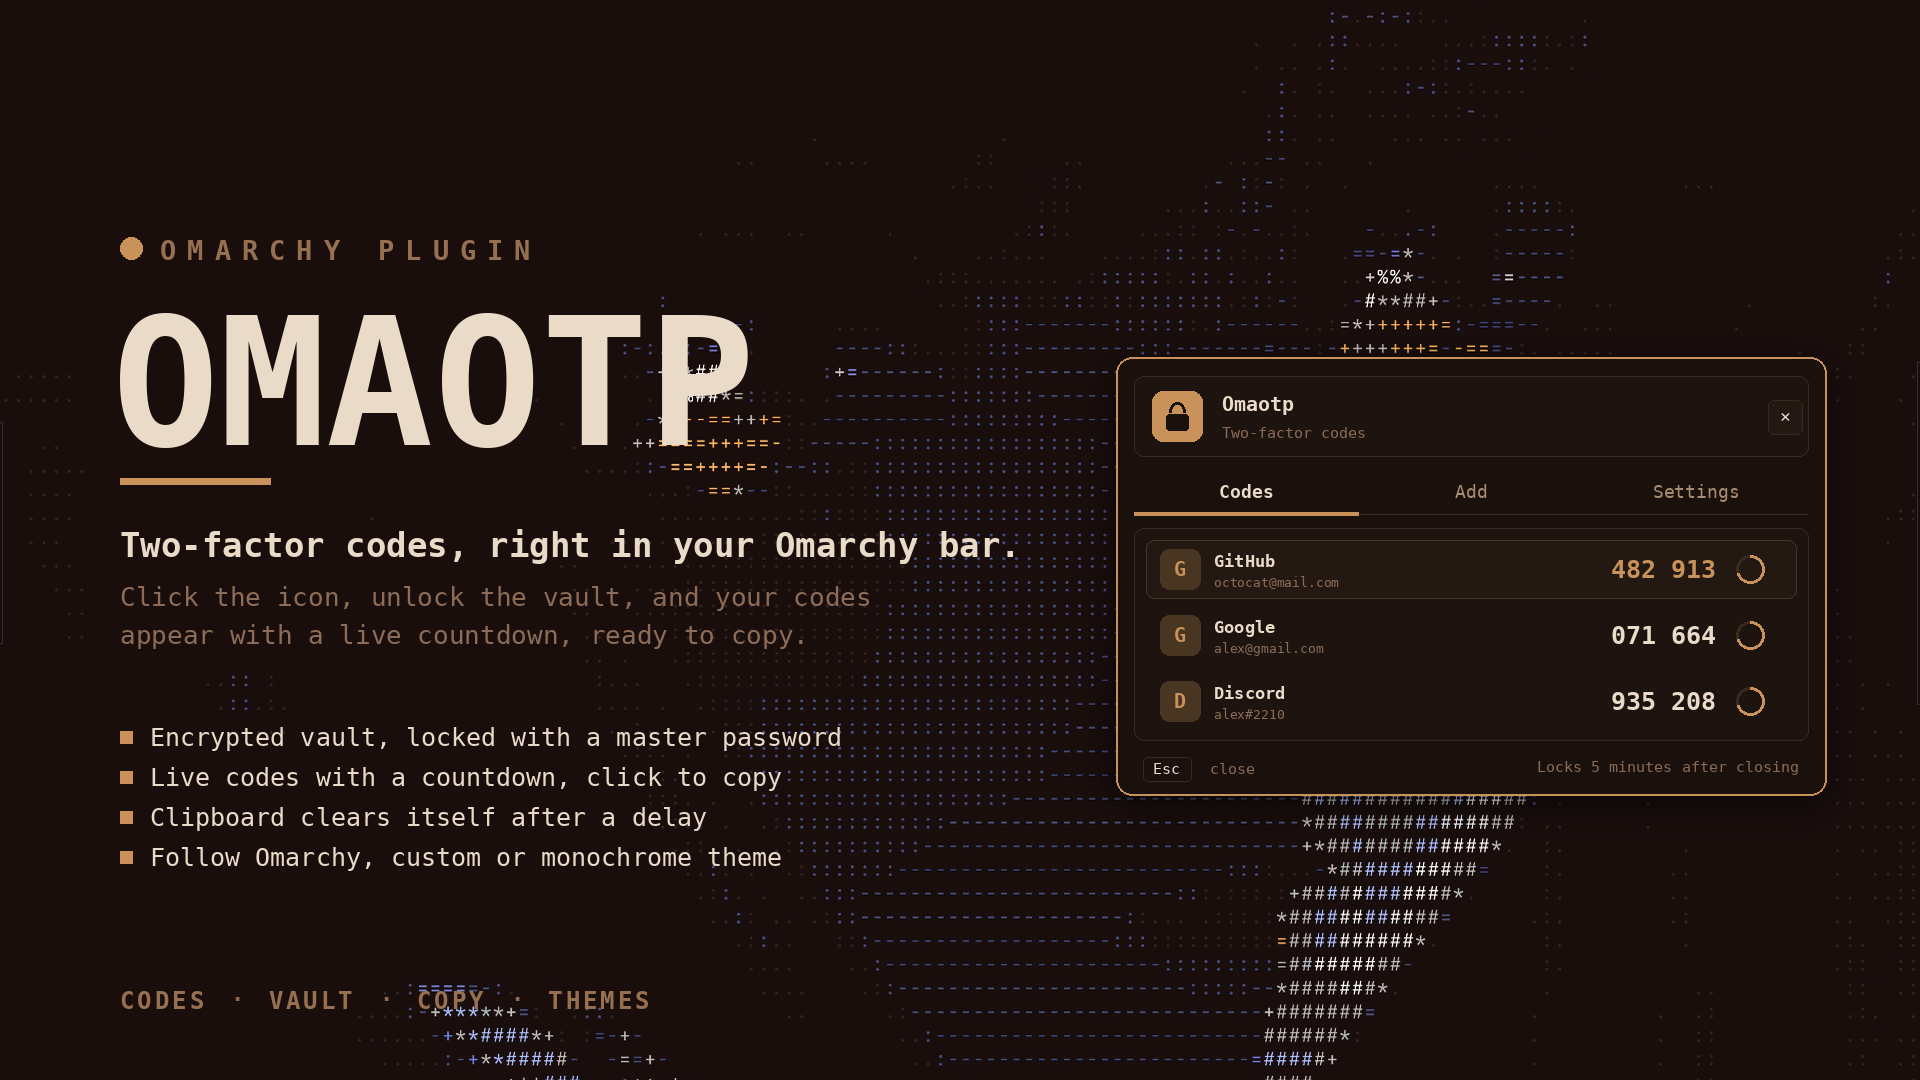
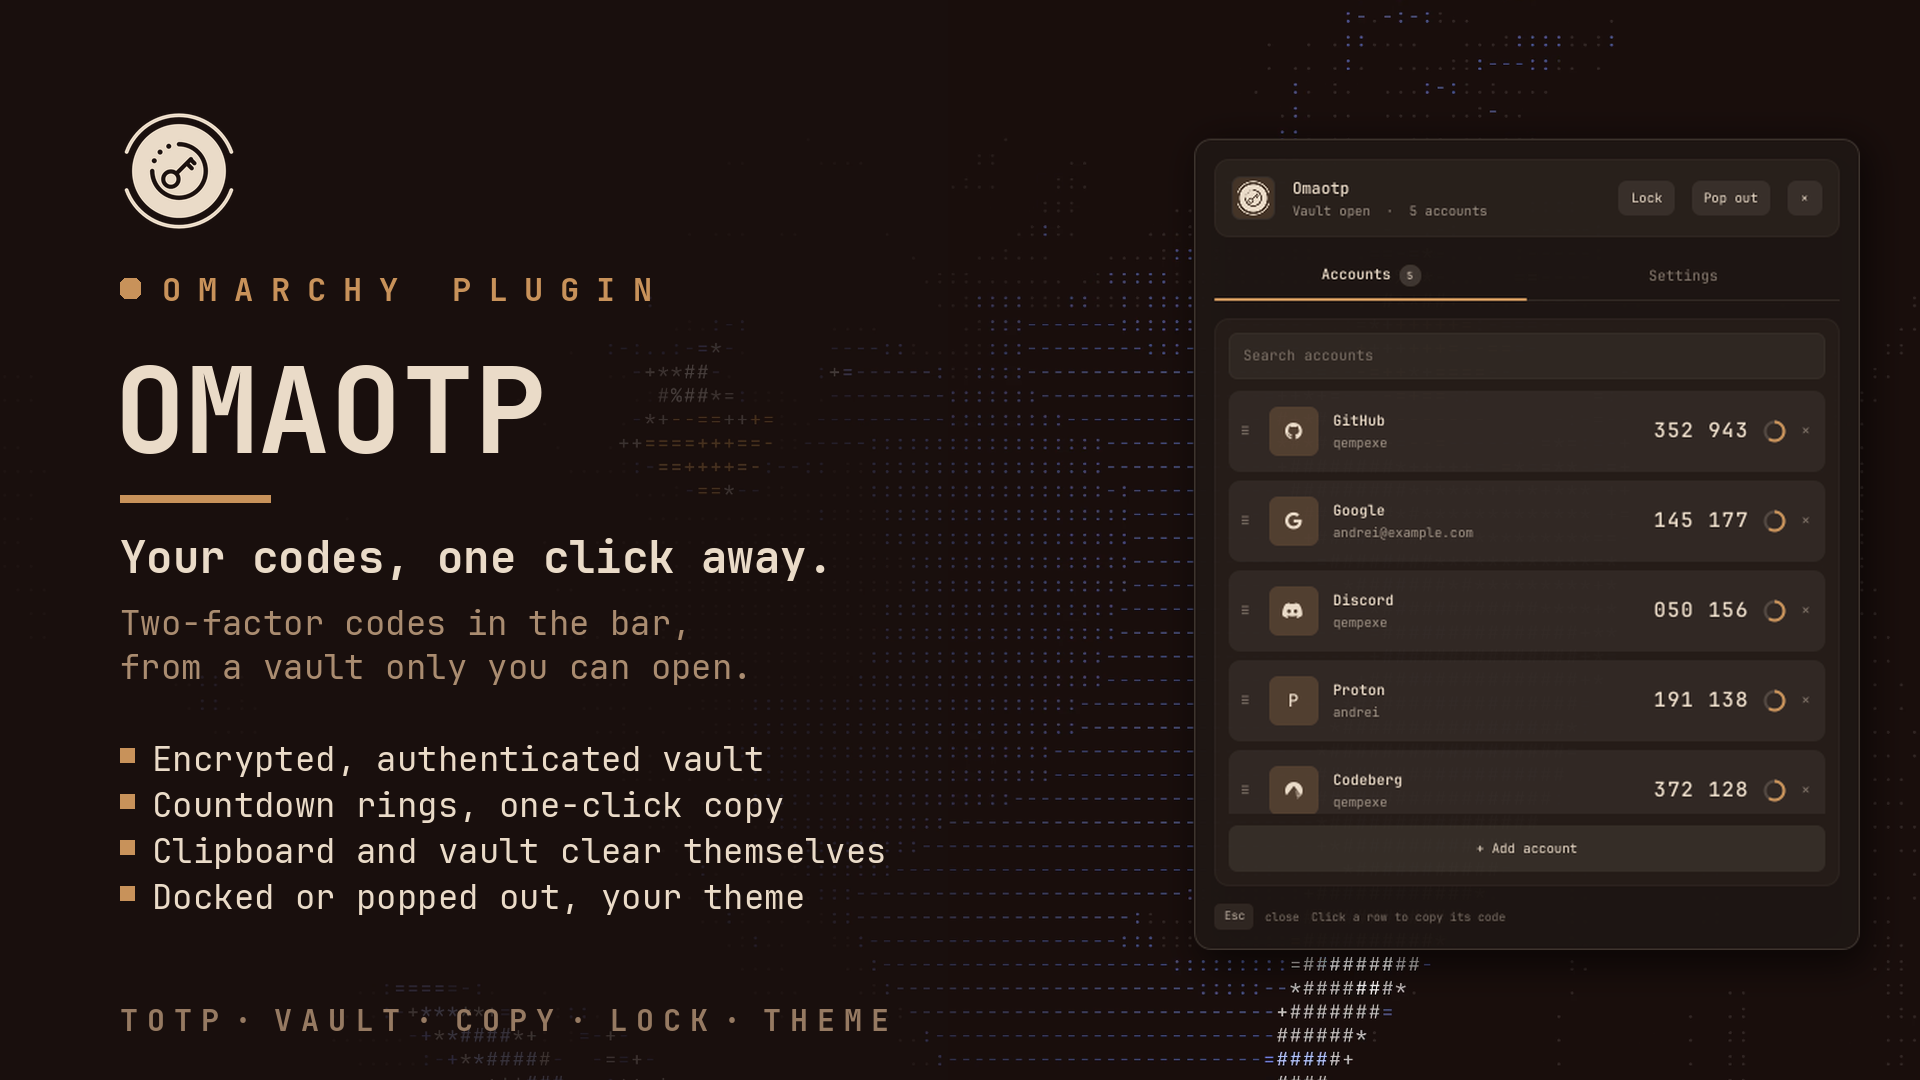
docs: README in the new layout, with screenshots and a new preview

diff --git a/README.md b/README.md
@@ -1,109 +1,232 @@
-# omaotp
+<p align="center">
+  <picture>
+    <source media="(prefers-color-scheme: light)" srcset="assets/logo-dark.png">
+    <img src="assets/logo.png" alt="Omaotp logo" width="112">
+  </picture>
+</p>
 
-A FreeOTP-style authenticator for the Omarchy bar. The bar shows one icon, ringed by its countdown, for the first account in your list. You set that order by dragging. Click the bar to open the list, search it, copy any code with one click, and drag accounts into the order you want.
+<h1 align="center">Omaotp</h1>
 
-Codes are RFC 6238 TOTP, the same codes FreeOTP, Aegis and Google Authenticator produce. Secrets are stored in an encrypted vault on this machine, protected by a master password.
+<p align="center">One-time codes in your <a href="https://omarchy.org">Omarchy</a> bar, from an encrypted vault only you can open.</p>
 
-![omaotp](preview.png)
+![Omaotp](preview.png)
 
-## Install
+An authenticator for two-factor sign-ins, like FreeOTP, Aegis or Google Authenticator,
+living in the bar. The bar shows your first account's icon in its countdown ring. Click
+it and your accounts open, each with its code; click a row and the code is copied, and
+cleared from the clipboard again a little later. The secrets stay in a vault on this
+computer, encrypted behind a master password.
 
-```sh
+## Features
+
+- **Standard codes**: RFC 6238 TOTP, 6 or 8 digits, SHA1, SHA256 or SHA512, any period
+  from 15 to 120 seconds, the same codes your phone app makes.
+- **An encrypted vault**: AES-256 with a key from your master password, plus an HMAC so
+  a changed vault is refused before it is opened.
+- **One click to copy**: the clipboard clears itself after 30 seconds, if it still holds
+  the code.
+- **Locks itself**: a few minutes after the window closes, or straight away.
+- **Search and order**: filter by issuer or account, and drag your accounts into the
+  order you want. The top one is the one on the bar.
+- **Your theme**: follows your Omarchy theme live, takes your window border's colors, or
+  uses your own colors, or none at all.
+- **Docked or popped out**: a panel on the bar, or a window you can move, resize and tile.
+
+### Accounts
+
+<img align="right" src="screenshots/accounts.png" alt="Accounts" width="360">
+
+Each row has the service's icon (GitHub, Google, Discord and many more, or a letter), the
+issuer and account, the code and a ring that runs out with it. It turns yellow at 10
+seconds and red at 5. Click a row to copy its code; the code lights up in the accent.
+
+**+ Add account** takes an `otpauth://totp/…` link (from the site's setup page, or a QR
+code decoder), or the issuer, the account and the secret by hand. The `×` on a row asks
+once more before it removes the account.
+
+<br clear="right">
+
+### The vault
+
+<img align="right" src="screenshots/locked.png" alt="Locked" width="360">
+
+The first time, Omaotp asks for a master password of at least 8 characters, twice, and
+creates the vault. After that it asks for it to unlock. **Lock** in the header, or a
+middle click on the bar button, locks it again at once.
+
+<br clear="right">
+
+## Installation
+
+```bash
 omarchy plugin add https://github.com/qempexe/omarchy-omaotp.git --enable --yes
+omarchy restart shell
 ```
 
-On first open, create a vault with a master password of at least 8 characters. The vault is created automatically; there is no separate setup step.
+Then add **Omaotp** to your bar, from the bar settings or with
+`{ "id": "io.github.qempexe.omaotp" }` under `bar` → `layout` in
+`~/.config/omarchy/shell.json`.
 
-## Requirements
+It needs `python3` and `openssl` for the vault, and `wl-clipboard` (`wl-copy`,
+`wl-paste`) for copying. Omarchy has them all.
 
-| Tool | Used for | Usually installed |
-| --- | --- | --- |
-| `python3` | the helper that generates codes | yes |
-| `openssl` | encrypting the vault | yes |
-| `wl-clipboard` (`wl-copy`, `wl-paste`) | copying codes | yes on Omarchy |
+## Usage
 
-## Using it
+### Bar button
 
-* **Add an account:** open the panel, click *Add account*, then either paste an `otpauth://totp/...` link (from a QR code decoder or the site's setup page) or fill in issuer, account and secret.
-* **Copy a code:** click its row. The clipboard is cleared after the time set in *Clear clipboard after* (default 30 seconds) if it still holds that code.
-* **Search:** type in the search box to filter by issuer or account.
-* **Reorder:** press and drag the `≡` handle on the left of a row, then release it over the row you want. The new order is saved in the vault, and the account at the top of the list is the one shown in the bar.
-* **Remove an account:** click the `×` on its row, then click *Remove?* to confirm.
-* **Lock:** click *Lock* in the header or middle-click the widget. The vault also locks after the time set in *Lock after* (default 5 minutes) once the panel closes.
-
-Codes refresh every 30 seconds, when the time window changes.
-
-## Settings
-
-Open the panel's *Settings* tab. Changes apply at once and are saved to `~/.config/omaotp/settings.json`. The file is watched, so a hand edit applies live too.
-
-| Setting | Default | Choices |
-| --- | --- | --- |
-| Accent color | Theme | Theme, Custom, Mono |
-| Custom color | `#39d353` | any `#rrggbb` (swatches, or type and press Enter) |
-| Lock after | 5 minutes | 1, 2, 5, 10, 15, 30 |
-| Clear clipboard after | 30 s | 10, 20, 30, 60, 120 |
-
-## Color
-
-Pick the accent color in *Settings*, or from the *Accent color* row:
-
-| Mode | What it uses |
+| Click | Does |
 | --- | --- |
-| **Theme** (default) | The background, text and accent colors of your current Omarchy theme, read from `~/.config/omarchy/current/theme/colors.toml`. The panel changes as soon as you switch themes. |
-| **Custom** | Any `#rrggbb` color. Pick a swatch, type a hex value and press Enter, or click Reset. |
-| **Mono** | Shades of your bar text color. Good for a fully neutral bar. |
+| Left | opens Omaotp on the Accounts tab, or closes it |
+| Middle | locks the vault (or copies the first code, or nothing: see **Middle click**) |
+| Right | the Settings tab |
 
-Countdown warnings are always shown in yellow (10 seconds left) and red (5 seconds left), in every mode.
+**Esc** or **×** closes it, and **Alt+←/→** switches tabs.
 
-Theme mode reads `background`, `foreground` and `accent` from `~/.config/omarchy/current/theme/colors.toml` and watches that file. If the file or any of those three keys is missing, the panel falls back to the bar's own colours and the accent to the default green.
+### Pop out and dock
 
-## Where data lives
+The header's **Pop out** turns Omaotp into a real window you can move, resize and tile,
+and **Dock** puts it back on the bar. **Settings › Window › Open as** picks which one the
+bar button opens.
 
-| Path | Contents |
-| --- | --- |
-| `~/.local/share/omaotp/vault.enc` | encrypted vault (AES-256-CBC, PBKDF2-SHA256, 300,000 iterations) |
-| `~/.config/omaotp/settings.json` | your settings |
-| `~/.config/omaotp/color` | old colour file from 1.0.x, read once for migration, then left in place |
+Hyprland tiles new windows. To float and center the popped-out window, add to
+`~/.config/hypr/hyprland.lua`:
 
-Nothing secret is written to the shell settings file or to the log.
-
-## Security notes
-
-* The master password is never passed on the command line. It goes to the helper on stdin and from there to openssl through a pipe, so it does not show up in `ps`.
-* The password and decrypted codes are held in memory only while the vault is open. Locking clears them.
-* The QML makes no network requests. Everything runs locally.
-* Back up `vault.enc` and remember the master password. Without the password the vault cannot be recovered.
-
-## Limitations
-
-* No import yet from Aegis or FreeOTP exports. Add accounts by link or by hand for now.
-* No QR scanning from the screen yet.
-* Only 30-second periods are shown as expected. Other periods work but refresh at the shortest period across your accounts.
-* Month and weekday labels are English.
-
-## Development
-
-```
-manifest.json          plugin manifest (id, settings schema)
-BarWidget.qml          bar item: vault state, helper job queue, countdown ring
-Panel.qml              popup: setup, unlock, accounts, add, settings
-Otp.js                 shared model: errors, issuer icons, colors, parsing
-bin/omaotp.py          helper: encrypted vault, TOTP, otpauth parsing
-Settings.js            the list the Settings tab is built from
-SettingsStore.qml      settings in memory, saved to settings.json and watched
-Foreground.qml         hidden probe for the bar colours
-FieldBox.qml, FlatButton.qml, SectionLabel.qml   small UI pieces
-tests/                 unit tests for Otp.js and Settings.js (node tests/otp.test.js)
-assets/key.png         icon shown in the bar for accounts with no known brand icon
+```lua
+o.window({ class = "^org\\.quickshell$", title = "^Omaotp$" }, { tag = "+omaotp-window" })
+o.window({ tag = "omaotp-window" }, { float = true })
+o.window({ tag = "omaotp-window" }, { center = true })
+o.window({ tag = "omaotp-window" }, { size = { 460, 560 } })
 ```
 
-The helper's commands are `status`, `init`, `codes`, `add` and `remove`. Each prints one line of JSON. Test it on its own with:
+## Configuration
 
-```sh
-printf 'my master password\n' | python3 bin/omaotp.py codes
+The **Settings** tab, or a right click on the bar button. Everything applies at once and
+is saved in `~/.config/omaotp/settings.json`.
+
+<table>
+<tr>
+<td><img src="screenshots/settings.png" alt="Settings: Colors"></td>
+<td><img src="screenshots/settings-security.png" alt="Settings: Security"></td>
+<td><img src="screenshots/about.png" alt="About"></td>
+</tr>
+</table>
+
+The settings sit in tabs, with a search box above them that looks through every tab.
+Each row has a **↺** to put it back, and **Reset all** in the header puts back everything.
+
+| Tab | Setting | Default | |
+| --- | --- | --- | --- |
+| Colors | Colors | Follow theme | Follow theme, Window borders, Custom or Monochrome |
+| | Custom colors | | background, text and accent; text too close to the background is darkened or lightened just enough to read |
+| | Text | Always readable | or Theme, or My text color |
+| Appearance | Card style | Soft | Soft, Outline or Flat |
+| | Spacing | Comfortable | Compact, Comfortable or Spacious |
+| | Roundness | 4 | 0 (square) to 20 |
+| | Text size | 1 | 0.8 to 1.5 |
+| | Issuer icons | on | or the first letter |
+| | Split codes in two | on | `123 456`; the copied code has no space |
+| Window | Window width, height | 460 × 560 | 380 to 1000, 400 to 1100 |
+| | Open as | Bar panel | or Own window |
+| | Window outline | off | the edge in your window border's colors, as a gradient or one color |
+| | Window tint | 0 | 0 to 30, the accent washed over the background |
+| | Window opacity | 97 | 50 to 100 |
+| Security | Lock after | 5 minutes | 1 to 60, after the window closes |
+| | Lock when the window closes | off | |
+| | Clear the clipboard after | 30 s | 10 to 120 |
+| | Hide codes until hovered | off | dots until the mouse is over the row |
+| Bar | Bar button shows | Icon and ring | or Ring and code, or Only the lock |
+| | Middle click | Lock the vault | or Copy the first code, or Nothing |
+
+**Window borders** and the outline read the active border from your theme's
+`hyprland.lua` (or `hyprland.conf`), and only take `#rrggbb` colors and an angle from it.
+Settings saved by 1.1 keep working under their new names.
+
+**About**, the last tab, has the logo, the version and a link to more plugins.
+
+## Troubleshooting
+
+- **Wrong master password.** There is no way around it: without the password the vault
+  can't be opened, by design. Keep it somewhere safe, and back up `vault.enc`.
+- **A code is refused.** Check the computer's clock (`timedatectl`): TOTP codes depend on
+  the time. Codes are made for the current 30-second window.
+- **That is not a valid link.** Only `otpauth://totp/…` links are taken, with a base32
+  secret, 6 or 8 digits and a period from 15 to 120 seconds. HOTP (counter) links aren't
+  supported.
+- **Where things live.**
+
+  | Path | Contents |
+  | --- | --- |
+  | `~/.local/share/omaotp/vault.enc` | the vault, in a folder only you can open (0700) |
+  | `~/.config/omaotp/settings.json` | your settings, nothing secret |
+
+- **How the vault is kept.** AES-256-CBC by `openssl`, with PBKDF2-SHA256 and 300,000
+  rounds from your master password, and an HMAC-SHA256 of the encrypted bytes with its
+  own key from the password, checked before anything is decrypted. The file is written to
+  a new file first and then moved over the old one, so a crash can't leave half a vault.
+- **The master password** is never put on a command line. It goes to the helper on
+  stdin and from there to `openssl` through a pipe, so it doesn't show in `ps`. It is
+  kept in memory only while the vault is open; locking forgets it, the codes and anything
+  typed into the window.
+- **Copying** writes the code to `wl-copy` through its stdin, never as an argument. The
+  clipboard is cleared after the time you set, only if it still holds that code.
+- **Network.** None. Everything happens on this computer.
+- **Text fields.** They never read the clipboard by themselves. **Ctrl+V** (or
+  **Shift+Insert**) pastes once through `wl-paste`, the first line only, at most 1 KB.
+- **No import yet** from Aegis or FreeOTP exports, and no QR scanning from the screen:
+  add accounts by link or by hand.
+
+## Contributing
+
+Bug reports and ideas are welcome as [issues](https://github.com/qempexe/omarchy-omaotp/issues).
+[CONTRIBUTING.md](CONTRIBUTING.md) explains how to add a setting or an icon, the rules
+and the tests. Everyone taking part is expected to follow the
+[code of conduct](CODE_OF_CONDUCT.md). What changed in each version is in the
+[changelog](CHANGELOG.md).
+
+### Source layout
+
+```
+qml/
+├── BarWidget.qml     the bar button and its ring, the vault's state, the helper's job
+│                     queue, copying, docking and popping out, the theme's border
+├── core/             UiState (colors, spacing, the open tab), SettingsStore (saved
+│                     locally, applied at once)
+├── panel/            Panel (docked), PopoutWindow, OtpView (the window), AccountsPage,
+│                     SettingsView + SettingRow + TileArt, AboutPage
+├── controls/         Btn, Chip, Sw, Txt, InputBox, PasteInput (a text field with a
+│                     bounded paste, and dots for passwords)
+└── js/               Schema.js (every setting), Otp.js (checking what the helper prints,
+                      icons), Theme.js (border colors)
+bin/omaotp.py         the vault and the codes: status, init, codes, add, remove, reorder
+assets/               the logo, light and dark
+tools/gen-manifest.js node tools/gen-manifest.js
+tests/test_model.js   node tests/test_model.js
 ```
 
-## License
+### Upgrading and uninstalling
 
-MIT
+```bash
+omarchy plugin update io.github.qempexe.omaotp
+omarchy restart shell
+```
+
+```bash
+omarchy plugin remove io.github.qempexe.omaotp
+omarchy restart shell
+rm -rf ~/.config/omaotp                       # settings
+# ~/.local/share/omaotp holds your vault: keep it, or delete it only when you're sure
+```
+
+## License and credits
+
+[MIT](LICENSE).
+
+- Codes follow [RFC 6238](https://datatracker.ietf.org/doc/html/rfc6238) (TOTP) and the
+  `otpauth://` link format used by authenticator apps.
+- Encryption by [OpenSSL](https://www.openssl.org), icons from [Nerd Fonts](https://www.nerdfonts.com).
+- Thanks to the **Omarchy** project for the shell and its plugin system, and to **Quickshell** and **Qt** for the toolkit.
+- Thanks to everyone who tests it and reports issues.
+
+Omaotp is an independent community plugin. It is not affiliated with or endorsed by
+Omarchy or any of the services whose icons it shows; their names and logos belong to
+their owners.
